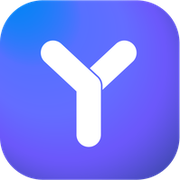
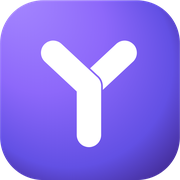
feat(marque): le Y violet par défaut, dans le menu et l'onglet
Le Y par défaut est le Y sur carré violet validé par Leslie le 11/10 (dégradé #A88BFF vers #301667, même géométrie), et non plus le Y bleu du site : public/yelema_y_violet.svg et src/app/icon.svg sont le fichier exact ; favicon.ico (32 px) et apple-icon.png (180 px) sont réduits depuis y_1024.png, sans retouche.

diff --git a/src/config/branding.ts b/src/config/branding.ts
@@ -1,9 +1,9 @@
 // Branding lives in code, not env — one Yelema brand for every client deployment.
-// `logoUrl` (the wordmark) and `markUrl` (the square mark, also src/app/icon.svg) are files in
-// /public. A deployment can show its client's logo in the menu with BRAND_LOGO_URL (see
-// runtime-config.ts).
+// `logoUrl` (the wordmark) and `markUrl` (the square Y, the violet one Leslie chose on 11/10; also
+// src/app/icon.svg, favicon.ico and apple-icon.png) are files in /public, never redrawn. A
+// deployment can show its client's logo in the menu with BRAND_LOGO_URL (see runtime-config.ts).
 export const branding = {
   appName: "Yelema",
   logoUrl: "/yelema-long.png",
-  markUrl: "/yelema_y.svg",
+  markUrl: "/yelema_y_violet.svg",
 } as const;
